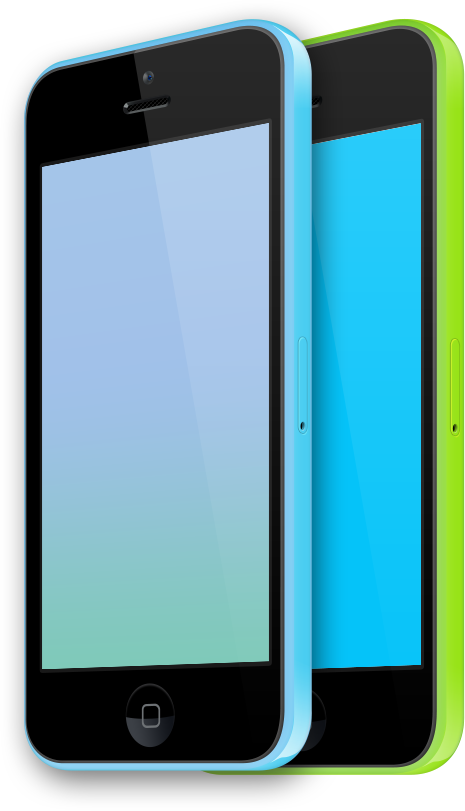
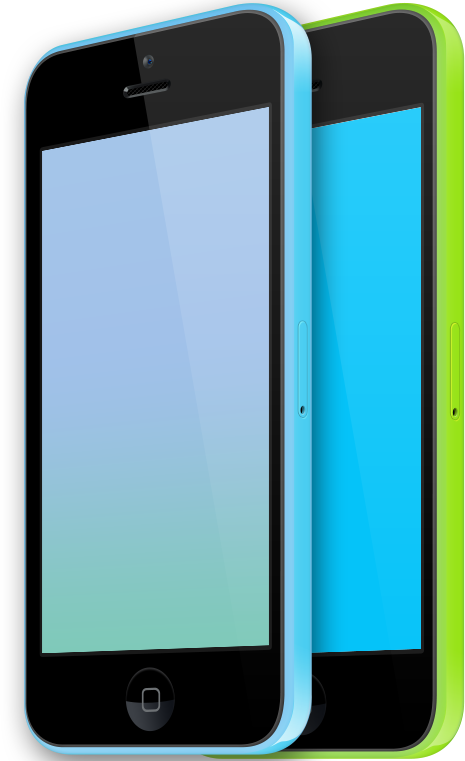
cropped iphone images on header

diff --git a/sass/layout/_best-way.scss b/sass/layout/_best-way.scss
@@ -12,7 +12,9 @@
   }
 
   @media only screen and (min-width: $break) {
+    @include flex-box($align: flex-start, $wrap: wrap, $direction: row, $justify: center);
     text-align: left;
+    padding: 5% 2% 0%;
   }
 
   h1 {
@@ -78,23 +80,4 @@
     @include flex-box($align: center, $wrap: wrap, $direction: column, $justify: center);
     padding: 5% 0 10% 0;
   }
-
-  // h2 {
-  //   @media only screen and (min-width: 50em) {
-  //     // flex-basis: 60%;
-  //   }
-  // }
-
-  // p {
-  //   @media only screen and (min-width: 50em) {
-  //     // padding-bottom: 5%;
-  //   }
-  // }
-
-  // li {
-  //   padding: 2%;
-  //   // @media only screen and (min-width: 50em) {
-  //   //   padding: 2%;
-  //   // }
-  // }
 }

diff --git a/index.html b/index.html
@@ -36,7 +36,7 @@
     </header>
     <main id="content">
       <section>
-        <div data-div="best-way" class="l-flex-container">
+        <div data-div="best-way" class="">
           <div>
             <h1>Best Way To Present Your Beautiful Mobile App</h1>
             <p>AppBox is full of awesome features. Its designed for <strong>App Landing and App Store site</strong></p>
